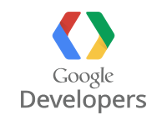
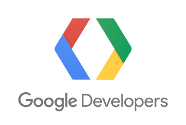
update(dependencies): update angular-material and angularjs.
use https to access the hub APIs.
styling updates after angular-material 0.11.3 update
use new Google Developers icon.
Don't round image bottom corners on cards that have content below the image.

Changed region(s): [[0.2695, 0.072, 0.7186, 0.72], [0.0898, 0.696, 0.9281, 0.912]]

diff --git a/war/index.html b/war/index.html
@@ -11,7 +11,7 @@
         <link href="https://fonts.googleapis.com/css?family=RobotoDraft:400,300,500,700,400italic" rel="stylesheet" >
         <link href='http://fonts.googleapis.com/css?family=Open+Sans:300italic,700italic,300,700' rel='stylesheet'>
         <!-- bower:css -->
-        <link rel="stylesheet" href="https://ajax.googleapis.com/ajax/libs/angular_material/0.10.0/angular-material.min.css">
+        <link rel="stylesheet" href="https://ajax.googleapis.com/ajax/libs/angular_material/0.11.2/angular-material.min.css">
         <link rel="stylesheet" href="//maxcdn.bootstrapcdn.com/font-awesome/4.3.0/css/font-awesome.min.css">
         <!-- endinject -->
         <!-- inject:css -->
@@ -75,12 +75,12 @@
     </body>
     <script src="https://apis.google.com/js/platform.js" async defer></script>
     <!-- bower:js -->
-    <script src="https://ajax.googleapis.com/ajax/libs/angularjs/1.4.0/angular.min.js"></script>
-    <script src="https://ajax.googleapis.com/ajax/libs/angularjs/1.4.0/angular-animate.min.js"></script>
-    <script src="https://ajax.googleapis.com/ajax/libs/angularjs/1.4.0/angular-aria.min.js"></script>
-    <script src="https://ajax.googleapis.com/ajax/libs/angularjs/1.4.0/angular-route.min.js"></script>
-    <script src="https://ajax.googleapis.com/ajax/libs/angularjs/1.4.0/angular-sanitize.min.js"></script>
-    <script src="https://ajax.googleapis.com/ajax/libs/angular_material/0.10.0/angular-material.min.js"></script>
+    <script src="https://ajax.googleapis.com/ajax/libs/angularjs/1.4.7/angular.min.js"></script>
+    <script src="https://ajax.googleapis.com/ajax/libs/angularjs/1.4.7/angular-animate.min.js"></script>
+    <script src="https://ajax.googleapis.com/ajax/libs/angularjs/1.4.7/angular-aria.min.js"></script>
+    <script src="https://ajax.googleapis.com/ajax/libs/angularjs/1.4.7/angular-route.min.js"></script>
+    <script src="https://ajax.googleapis.com/ajax/libs/angularjs/1.4.7/angular-sanitize.min.js"></script>
+    <script src="https://ajax.googleapis.com/ajax/libs/angular_material/0.11.2/angular-material.min.js"></script>
     <!-- endinject -->
     <!-- inject:js -->
     <script src="app/dist/boomerang-gae.min.js"></script>

diff --git a/war/app/events/events.js b/war/app/events/events.js
@@ -7,7 +7,7 @@ angular.module('gdgXBoomerang')
     vm.dateFormat = Config.dateFormat;
     vm.events = { past:[], future:[] };
 
-    var url = 'http://hub.gdgx.io/api/v1/chapters/' + Config.id + '/events/upcoming?callback=JSON_CALLBACK';
+    var url = 'https://hub.gdgx.io/api/v1/chapters/' + Config.id + '/events/upcoming?callback=JSON_CALLBACK';
     var headers = { 'headers': { 'Accept': 'application/json;' }, 'timeout': 2000 };
     $http.jsonp(url, headers)
         .success(function (data) {
@@ -32,7 +32,7 @@ angular.module('gdgXBoomerang')
         });
 
     var getPastEventsPage = function(page) {
-        var url = 'http://hub.gdgx.io/api/v1/chapters/' + Config.id +
+        var url = 'https://hub.gdgx.io/api/v1/chapters/' + Config.id +
             '/events/past?callback=JSON_CALLBACK&page=' + page;
         var headers = { 'headers': {'Accept': 'application/json;'}, 'timeout': 2000 };
         $http.jsonp(url, headers)

diff --git a/war/app/organizers/components/gplus_person.html b/war/app/organizers/components/gplus_person.html
@@ -1,10 +1,10 @@
-<md-card layout-fill>
+<md-card>
     <img ng-src="{{person.image.url}}" alt="Profile Photo"/>
     <md-card-content layout="column" layout-fill>
         <h3>{{person.displayName}}</h3>
         <md-content>
             <div ng-bind-html="person.aboutMe" style="max-height: 205px"></div>
         </md-content>
-        <md-button href="https://plus.google.com/{{gplusId}}" class="md-accent">Profile</md-button>
+        <md-button ng-href="https://plus.google.com/{{gplusId}}" class="md-accent">Profile</md-button>
     </md-card-content>
 </md-card>

diff --git a/war/app/organizers/organizers.js b/war/app/organizers/organizers.js
@@ -4,7 +4,7 @@ angular.module('gdgXBoomerang')
     vm.loading = false;
     NavService.setNavTab(4);
 
-    var url = 'http://hub.gdgx.io/api/v1/chapters/' + Config.id + '?callback=JSON_CALLBACK';
+    var url = 'https://hub.gdgx.io/api/v1/chapters/' + Config.id + '?callback=JSON_CALLBACK';
     var headers = { 'headers': { 'Accept': 'application/json;' }, 'timeout': 2000 };
     $http.jsonp(url, headers).success(function (data) {
         if (data.organizers) {

diff --git a/war/app/about/about.html b/war/app/about/about.html
@@ -14,7 +14,7 @@
     </div>
 </md-whiteframe>
 <div class="gdg_loading" ng-show="vm.loading"></div>
-<md-card ng-hide="vm.loading">
+<md-card class="description-card" ng-hide="vm.loading">
     <img ng-show="vm.cover.url" ng-src="{{ vm.cover.url }}" alt="Google+ Cover Image">
     <div id="cover" ng-show="vm.cover.url">
 

diff --git a/war/app/css/gdg.css b/war/app/css/gdg.css
@@ -127,6 +127,10 @@ md-grid-list md-grid-tile md-grid-tile-footer h3 {
 md-card > img {
     border-radius: 3px;
 }
+gplus-person md-card > img,
+.description-card > img {
+    border-radius: 3px 3px 0 0;
+}
 md-card a {
     font-size: 14px;
     font-weight: 500;
